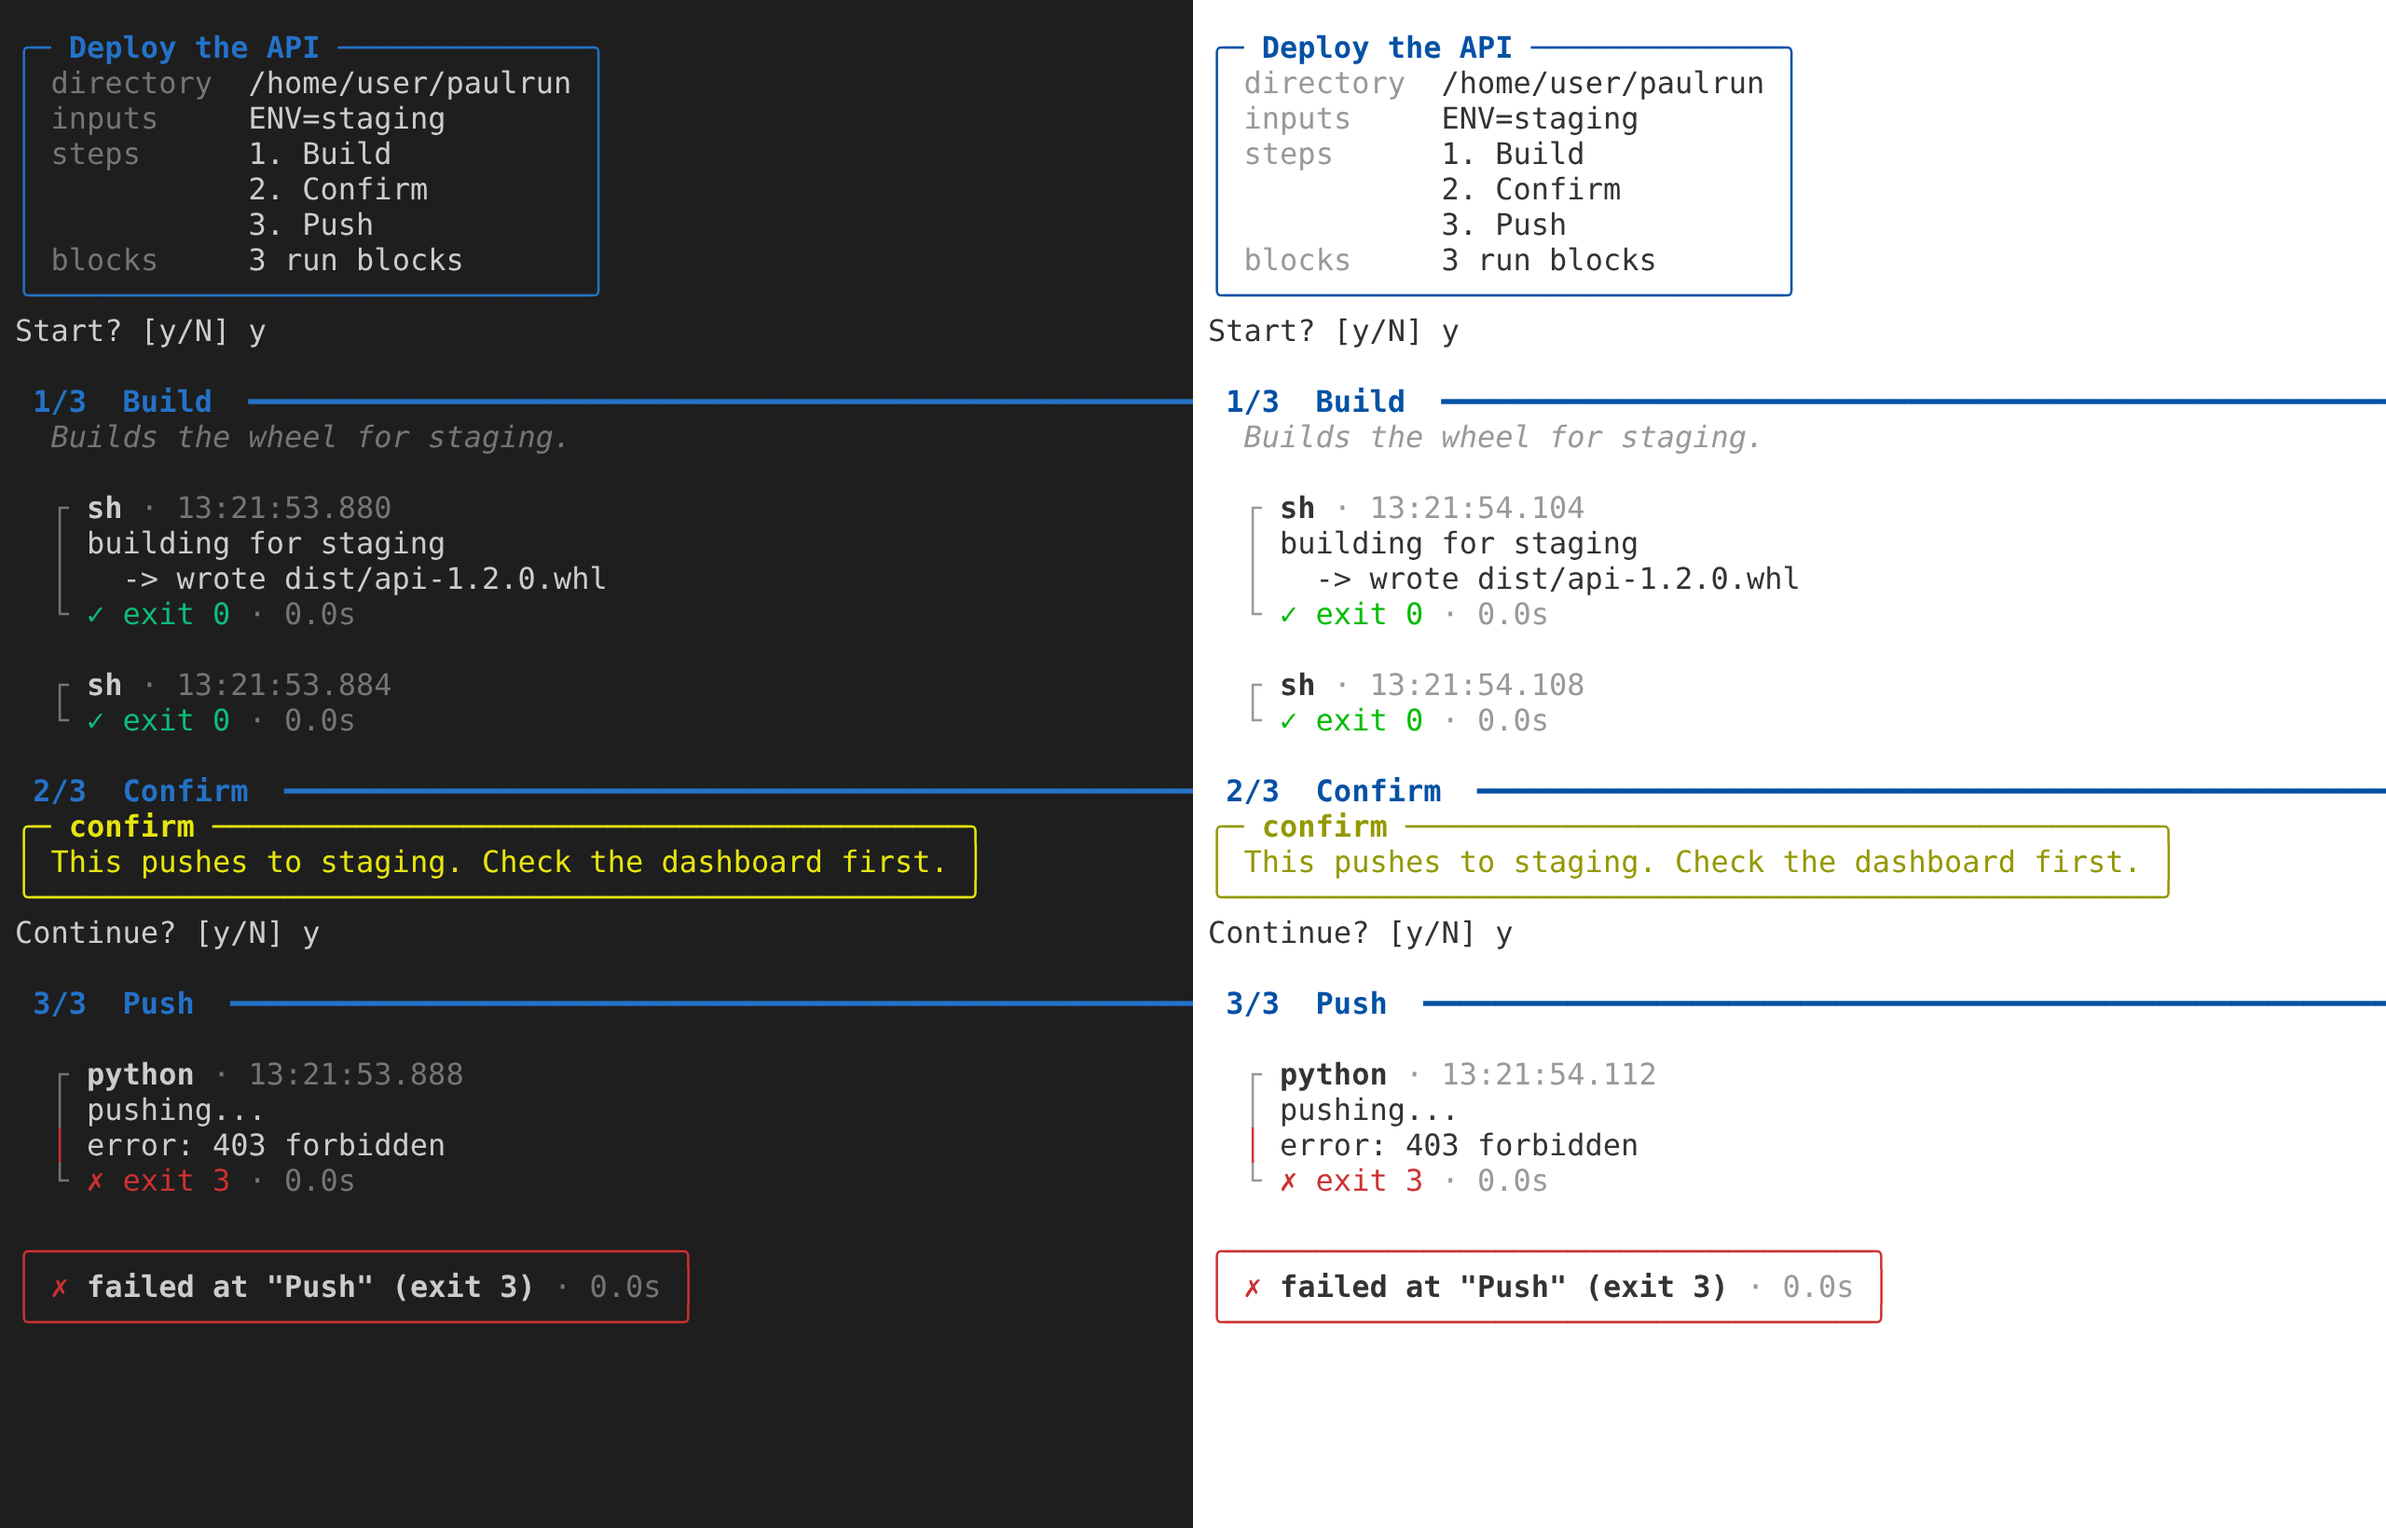
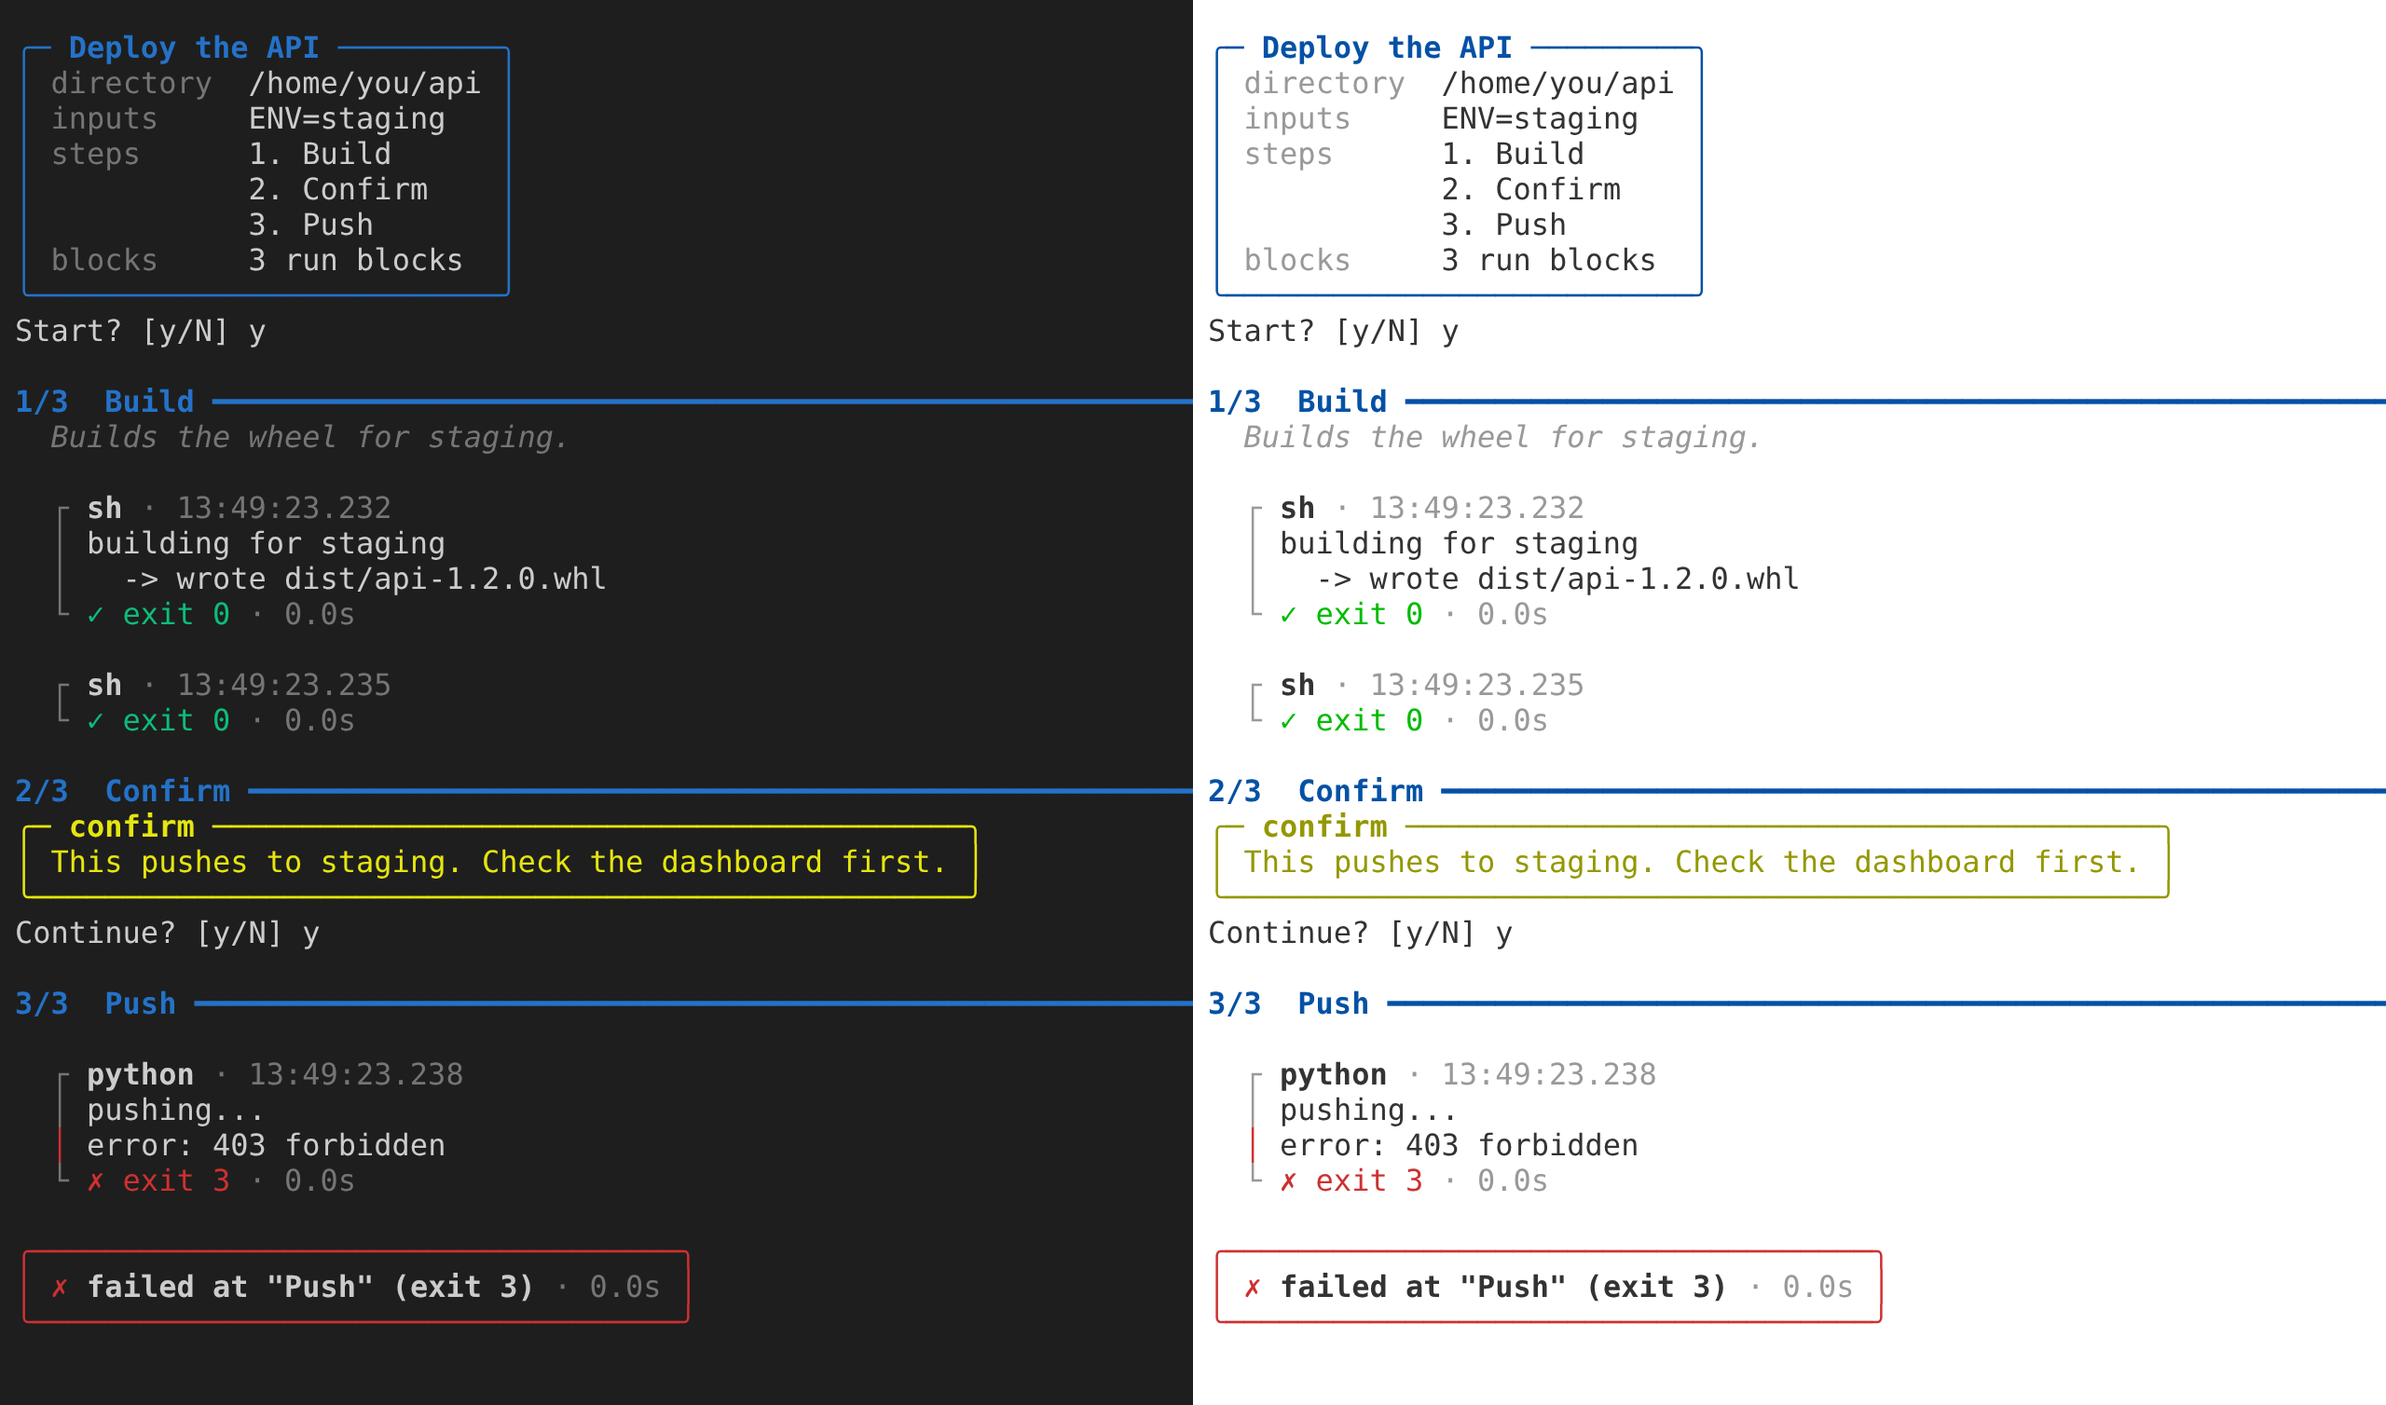
Regenerate the example image from paulrun's real output, and fix a typo
Claude-Session: https://claude.ai/code/session_01QATENwwCHmVLLHKTwCtboe

diff --git a/README.md b/README.md
@@ -4,7 +4,7 @@
 
 paulrun executes the code blocks in your markdown file, turning them into runbooks.
 
-A runbook is just a normal markdown file that a person can read and write, but if your annotate a code block `run`, then paulrun can execute the code blocks for you, helping you to automate tedious multi-step tasks.
+A runbook is just a normal markdown file that a person can read and write, but if you annotate a code block `run`, then paulrun can execute the code blocks for you, helping you to automate tedious multi-step tasks.
 
 [![Package version](https://img.shields.io/pypi/v/paulrun?color=%2334D058&label=latest%20version)](https://pypi.org/project/paulrun)
 ![Python versions](https://img.shields.io/badge/python-3.12+-blue)

diff --git a/docs/index.md b/docs/index.md
@@ -4,7 +4,7 @@
 
 paulrun executes the code blocks in your markdown file, turning them into runbooks.
 
-A runbook is just a normal markdown file that a person can read and write, but if your annotate a code block `run`, then paulrun can execute the code blocks for you, helping you to automate tedious multi-step tasks.
+A runbook is just a normal markdown file that a person can read and write, but if you annotate a code block `run`, then paulrun can execute the code blocks for you, helping you to automate tedious multi-step tasks.
 
 <div style="text-align: center; padding-top:10px;">
 <p>
